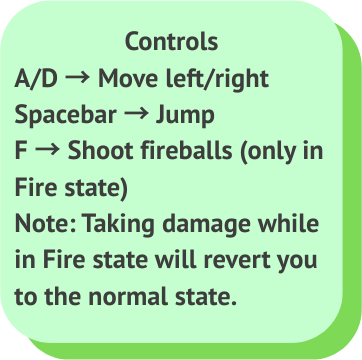
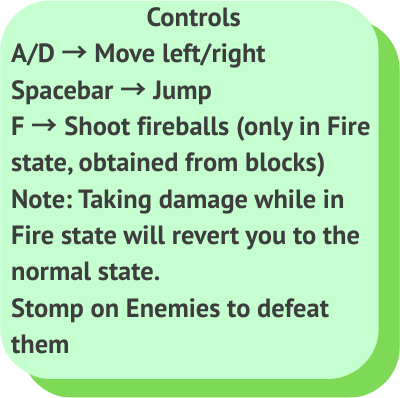
Added an explanation of the controls

diff --git a/src/Game/GameController.java b/src/Game/GameController.java
@@ -248,8 +248,6 @@ public class GameController extends JPanel {
 
     public void updateEnemies(){
         for (int i = (enemies.size() - 1); i >= 0; i--){
-            Enemy currentEnemy = enemies.get(i);
-            boolean blnShellRemoved = false;
 
             // Checks for collision
             if (player.getPlayerBounds().intersects(enemies.get(i).getBounds())){
@@ -260,10 +258,11 @@ public class GameController extends JPanel {
                     enemies.get(i).collidesWith(this, player);
                 }
             }
+        }
+        for (int i = (enemies.size() - 1); i >= 0; i--){
+            Enemy currentEnemy = enemies.get(i);
+            boolean blnShellRemoved = false;
             // If all enemies are dead don't continue collision checks
-            if (enemies.isEmpty()){
-                return;
-            }
             // For Koopa shells
             for (int j = (enemies.size() - 1); j >= 0; j--){
                 // Koopa shells cant destroy itself
